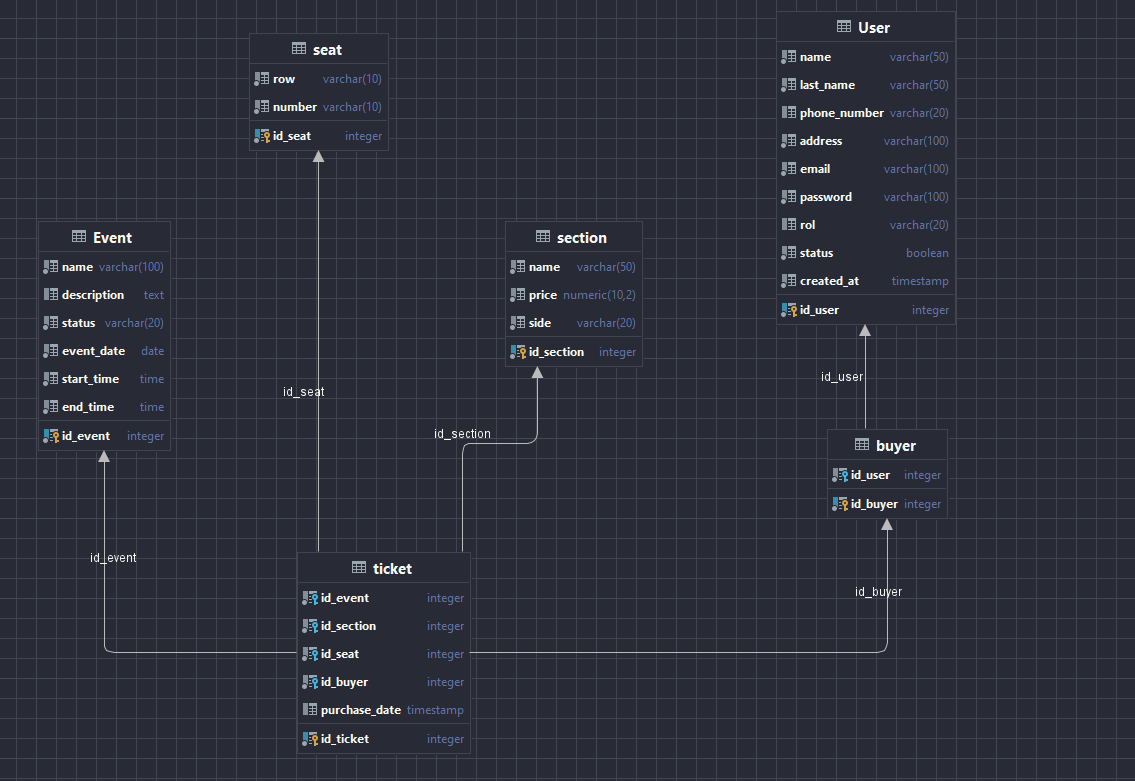
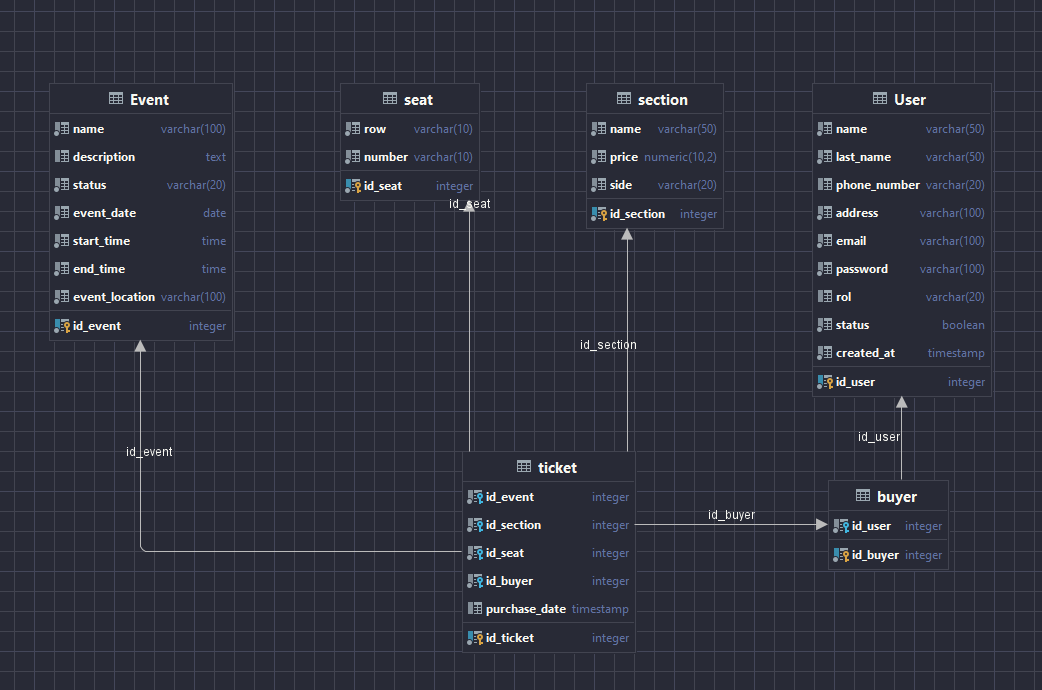
adding new atribute for  event location

diff --git a/proyecto-EMSA/src/main/java/com/mycompany/emsa/project/controller/service/model/Event.java b/proyecto-EMSA/src/main/java/com/mycompany/emsa/project/controller/service/model/Event.java
@@ -14,15 +14,17 @@ public class Event {
     private int idEvent;
     private String name;
     private String description;
+    private String eventLocation;
     private Date eventDate;
     private Time startTime;
     private Time endTime;
     private String status;
 
-    public Event(String name, String description, Date eventDate, Time startTime) {
+    public Event(String name, String description, String eventLocation, Date eventDate, Time startTime) {
         this.name = name;
         this.description = description;
         this.eventDate = eventDate;
         this.startTime = startTime;
+        this.eventLocation = eventLocation;
     }
 }

diff --git a/proyecto-EMSA/src/main/java/com/mycompany/emsa/project/controller/service/model/User.java b/proyecto-EMSA/src/main/java/com/mycompany/emsa/project/controller/service/model/User.java
@@ -1,6 +1,6 @@
 package com.mycompany.emsa.project.controller.service.model;
 
-import lombok.AllArgsConstructor;
+
 import lombok.Getter;
 import lombok.NoArgsConstructor;
 import lombok.Setter;
